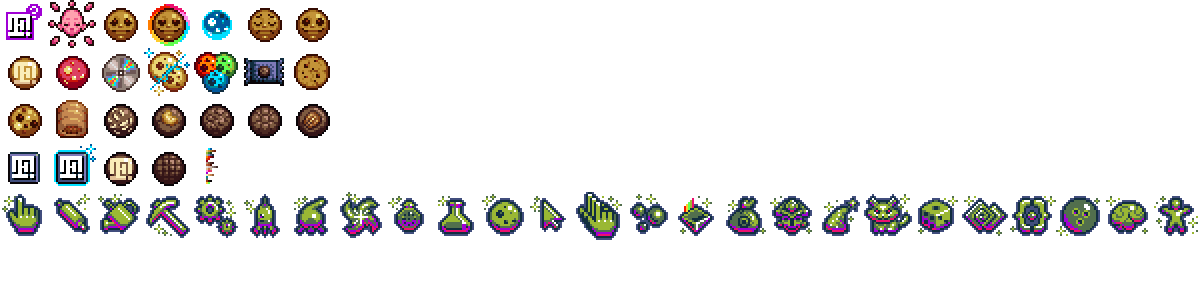
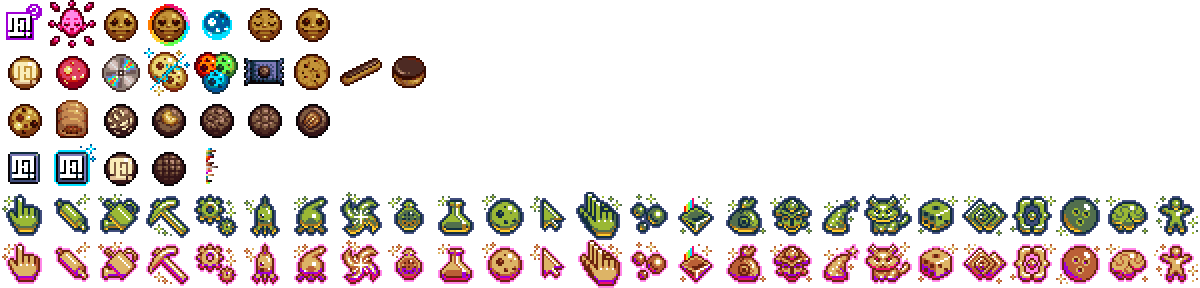
Adds Stellarbutter upgrades and Caramethyst achievements

diff --git a/fractylcookie.js b/fractylcookie.js
@@ -44,7 +44,6 @@ Game.registerMod('fractylCookie',{
     Game.last.order = achorder;
   },
   addTieredAchievement(name,desc,building,tier,icon,achorder){
-    console.log(building)
     this.achievements.push(new Game.Achievement(name,loc("Have <b>%1</b>.",loc("%1 "+Game.Objects[building].bsingle,LBeautify(Game.Tiers[tier].achievUnlock)))+desc,icon));
     Game.SetTier(building,tier);
     Game.last.order = achorder;
@@ -58,6 +57,20 @@ Game.registerMod('fractylCookie',{
     Game.last.order = upgorder;
     Game.cookieUpgrades.push(Game.last);
   },
+  addTieredUpgrade:function(name,desc,building,tier,upgorder,icon){
+    this.upgrades.push(Game.TieredUpgrade(name,desc,building,tier));
+    Game.last.order = upgorder;
+    Game.last.icon = icon;
+  },
+  /*addCustomBuildingUpgrade:function(name,desc,building,tier,upgorder,icon,mult){
+    let upg = Game.TieredUpgrade(name,desc,building,tier);
+    this.upgrades.push(upg);
+    Game.buildingMultiplierUpgrades.push(upg);
+    Game.last.order = upgorder;
+    Game.last.icon = icon;
+    Game.last.customMult = mult;
+    Game.last.building = building;
+  },*/
   addPrestigeUpgrade:function(name,desc,cost,icon,parents,order,posx,posy){
     this.upgrades.push(new Game.Upgrade(name,desc,cost,icon))
     Game.last.pool = 'prestige';
@@ -83,7 +96,10 @@ Game.registerMod('fractylCookie',{
     }
   },
   create:function() {
+    //Game.buildingMultiplierUpgrades = [];
     Game.Tiers[16]={name:'Stellarbutter',unlock:650,achievUnlock:750,iconRow:0,color:'#526f4d',price:500000000000000000000000000000000000000000000}
+    Game.Tiers[17]={name:'Caramethyst',unlock:700,achievUnlock:800,iconRow:0,color:'#ddb466',price:5000000000000000000000000000000000000000000000000}
+    //this.addCustomBuildingMultipliers();
     Game.NewUpgradeCookie=function(obj)
 		{
 			var upgrade=new Game.Upgrade(obj.name,loc("Cookie production multiplier <b>+%1%</b>.",'[x]').replace('[x]',Beautify((typeof(obj.power)==='function'?obj.power(obj):obj.power)))+(EN?'<q>'+obj.desc+'</q>':''),obj.price,obj.icon);
@@ -129,6 +145,31 @@ Game.registerMod('fractylCookie',{
       for(let i of this.upgrades) {this.upgrades[i].bought = 0};
     }
   },
+  /*addCustomBuildingMultipliers:function(){
+    if (this.customMultipliersSetup) {return;}
+    if (!Game||!Game.GetTieredCpsMult) {console.warn('YOWZA!'); return;} //is there a game with a function? sure hope so
+    if (!Game.Objects || Object.keys(Game.Objects).length === 0) {console.warn('YEOWCH!'); return;} //are there buildings?
+    if (!Game.originalGetTieredCpsMult) {Game.originalGetTieredCpsMult = Game.GetTieredCpsMult;} //store the old function
+    Game.GetTieredCpsMult = function(me) {
+      if (!me || !me.name || !Game.originalGetTieredCpsMult) {return 1;} //invalid building or no old function
+      var mult = 1;
+      try {
+        mult = Game.originalGetTieredCpsMult(me);
+        if (typeof mult !== 'number' || isNaN(mult) || !isFinite(mult)) {mult = 1;} //stop errors in old function
+      } catch (e) {mult = 1;}
+      if (Game.buildingMultiplierUpgrades) {
+        for (var i = 0; i < Game.buildingMultiplierUpgrades.length; i++) {
+          var upgradeInfo = Game.buildingMultiplierUpgrades[i];
+          if (upgradeInfo && upgradeInfo.building === me.name && Game.Upgrades[upgradeInfo.name] && Game.Upgrades[upgradeInfo.name].bought) {
+            mult *= upgradeInfo.customMult;
+          }
+        }
+      }
+      if (typeof mult !== 'number' || isNaN(mult) || !isFinite(mult)) {mult = 1;}
+      return mult;
+    };
+    Game.customMultipliersSetup = true;
+  },*/
   createUpgrades:function() {
 
 		this.addCookieUpgrade({name:'Fractyl cookies',desc:'A mostly plain cookie, with a white chocolate logo. A delicious reminder to give Fractyl all your money.',icon:[0,1,this.icons],power:5,price:9999999999999999*5},10020.2575);
@@ -138,10 +179,15 @@ Game.registerMod('fractylCookie',{
     this.addCookieUpgrade({name:'Sausage rolls',desc:'It\'s the pastry equivalent of a hotdog, so it stands out from the other pastries which are much more on-theme.',icon:[1,2,this.icons],require:'Box of pastries',power:4,price:Math.pow(10,49)},10041)
     this.addCookieUpgrade({name:'Triple chocolate cookies',desc:'White, milk, and dark. The end to all chocolate conflict, and the beginning of a bright future.',icon:[0,2,this.icons],power:4,price:9999999999*5},10003)
 
+    let upgradesToMove = {253:[-255,-214],254:[-105,-268],255:[-189,-266],326:[-277,-133],};
+    Object.keys(upgradesToMove).forEach(i => {
+      Game.UpgradesById[i].posX=upgradesToMove[i][0];Game.UpgradesById[i].posY=upgradesToMove[i][1];
+    })
+
     let chocPacket = 'Packet of chocolate cookies'
 		this.addPrestigeUpgrade(chocPacket,loc("Contains an assortment of chocolate cookies.")
-    +'<q>If it ain\'t broke, create a chocolate version!</q>',25,[5,1,this.icons],['Heavenly cookies'],0.1);
-    Game.Upgrades['Starter kit'].parents.push(Game.Upgrades[chocPacket],50,-200)
+    +'<q>If it ain\'t broke, create a chocolate version!</q>',25,[5,1,this.icons],['Heavenly cookies'],0.1,-36,-220);
+    Game.Upgrades['Starter kit'].parents.push(Game.last)
 
     // Chocolate cookies
     this.addCookieUpgrade({name:'Chocolate peanut butter cookies',desc:'A common form of the chocolate cookie. Made using fresh chocolate peanuts.',icon:[3,3,this.icons],require:chocPacket,power:2,price:200000000},10033)
@@ -164,6 +210,32 @@ Game.registerMod('fractylCookie',{
     Game.last.order = 50003;
     Game.Unlock('Fractyl switch [on]')
 
+    
+    this.addCookieUpgrade({name:'Classic cookies',desc:'A relic of the very distant past.',icon:[6,1,this.icons],require:'Box of maybe cookies',power:5,price:Math.pow(10,51)},10051.1)
+    this.addCookieUpgrade({name:'Eclairs',desc:'A thunderstorm is approaching! Quick, eat these fast before lightning strikes them!',icon:[7,1,this.icons],require:'Box of pastries',power:4,price:Math.pow(10,51)},10041.1)
+
+    //this.addCustomBuildingUpgrade("Duodecillion fingers","<q>Perfect for magic tricks or petty theft.</q>","Cursor",16,101,[0,4,this.icons],2)
+		this.addTieredUpgrade("Duodecillion fingers","<q>Perfect for magic tricks or petty theft.</q>","Cursor",16,101,[0,4,this.icons])
+		this.addTieredUpgrade("Knitting needles","<q>Gives your grandmas something to do with their hands and distracts them from doing other things that could harm cookie production. Idle hands are the devil's bakery.</q>","Grandma",16,201,[1,4,this.icons])
+		this.addTieredUpgrade("Hydration liquid","<q>Composed of a dangerous mixture of various chemicals. Contains some very questionable substances and a couple rare elements. It hydrates your plants just slightly better than water.</q>","Farm",16,301,[2,4,this.icons])
+		this.addTieredUpgrade("Motivational images","<q>Never give up, because you never know when you're one swing of a pickaxe away from an Olympic swimming pool worth of rare minerals.</q>","Mine",16,401,[3,4,this.icons])
+		this.addTieredUpgrade("Hyperpetual motion machine","<q>This machine doesn't just stay in constant motion forever, it speeds up as it moves, creating a source of energy that only gets more powerful over time.</q>","Factory",16,501,[4,4,this.icons])
+		this.addTieredUpgrade("French spacing","<q>This is when a space is added before any punctuation with two separate pieces. The rest of the text in this game is full of it, so why not add it into your legal documents to pad them out and make less people read them ?</q>","Bank",16,526,[15,4,this.icons])
+		this.addTieredUpgrade("Escalator to heaven","<q>No one wants to submit themselves to a religion for their whole life just to climb up an endless flight of stairs. Why not sweeten the deal a little bit?</q>","Temple",16,551,[16,4,this.icons])
+		this.addTieredUpgrade("Wizard hobbies","<q>If your wizards are going to be casting spells and summoning cookies day and night, they need time off to do other things, like crocheting or web development.</q>","Wizard tower",16,576,[17,4,this.icons])
+		this.addTieredUpgrade("Space origami","<q>Take a lightweight, flat piece of incredibly dense machinery and electronics and unfold it into a fully functioning spaceship! Alternatively, fold time and space up so that your shipments can travel across the universe in an instant or less.</q>","Shipment",16,601,[5,4,this.icons])
+		this.addTieredUpgrade("Recursive transmutation","<q>If you stop making cookies for one second, you can use alchemy to transmute your equipment into better equipment, and then use that equipment to transmute your equipment into even better equipment. Repeat these steps as many times as you like, but remember not to make your equipment so advanced that it can do your job better than you.</q>","Alchemy lab",16,701,[6,4,this.icons])
+		this.addTieredUpgrade("Three sided portals","<q>It's common knowledge that you enter a portal through one side and exit out the other, but recently discovered ancient tablets suggest that a secret third side exists. Where does it go? Let's find out.</q>","Portal",16,801,[7,4,this.icons])
+		this.addTieredUpgrade("Flashbacks","<q>As a power-saving measure, researchers have found an alternate method of travelling to the past. Next time someone vividly reminisces or ruminates, your time machines can quickly catch a ride and get flashed back with them.</q>","Time machine",16,901,[8,4,this.icons])
+		this.addTieredUpgrade("Antiantimatter","<q>The enemy of my enemy is my friend. And the opposite of the opposite of matter probably matters.</q>","Antimatter condenser",16,1001,[13,4,this.icons])
+		this.addTieredUpgrade("Wider wavelength range","<q>There's more light out there than what we can see. Infrared and ultraviolet light are mostly untapped sources, until now. One benefit of these is that they won't burn the retinas of your employees, but if you stray too far from the visible light spectrum you may encounter other, more dangerous consequences.</q>","Prism",16,1101,[14,4,this.icons])
+		this.addTieredUpgrade("Jinx manipulation","<q>Just talk about how probable it is that undesirable things could happen and how much you'd hate if something really great happened to you. I mean, words are just words, so you have nothing to worry about.</q>","Chancemaker",16,1201,[19,4,this.icons])
+		this.addTieredUpgrade("Inline frames","<q>That's odd. This browser game contains another, harder to use browser game.</q>","Fractal engine",16,1301,[20,4,this.icons])
+		this.addTieredUpgrade("Extended documentation","<q>Contains all the information you need in one place, including the information advanced web developers don't want you to know about.</q>","Javascript console",16,1401,[21,4,this.icons])
+		this.addTieredUpgrade("Activeverses","<q>Turns out that constantly paying attention to an idleverse and endlessly working to maximise output gives a pretty significant boost to its production. The benefits are so large that they're almost worth the immense effort.</q>","Idleverse",16,1501,[22,4,this.icons])
+		this.addTieredUpgrade("Brain teasers","<q>Thinking cookies into existence can become mundane and repetitive, so these activities for your cortex bakers will keep their neural pathways strong and healthy.</q>","Cortex baker",16,1601,[23,4,this.icons])
+		this.addTieredUpgrade("Asexual reproduction","<q>Plants have been cloning themselves for years, just do as they do and everything will be alright (except for all of the things that will be weird and disgusting).</q>","You",16,1701,[24,4,this.icons])
+
     LocalizeUpgradesAndAchievs();
   },
   createAchievements:function() {
@@ -185,7 +257,7 @@ Game.registerMod('fractylCookie',{
     this.addLevel20Achievement("Between a rock and a hard place", "Reach level <b>20</b> mines.",[3,27],'Mine',1321);
     this.addLevel20Achievement("One million gears", "Reach level <b>20</b> factories.<q>And spinning things.</q>",[4,27],'Factory',1421);
     this.addLevel20Achievement("Dollars on the penny", "Reach level <b>20</b> banks.",[15,27],'Bank',1446);
-    this.addLevel20Achievement("Escalator to heaven", "Reach level <b>20</b> temples.",[16,27],'Temple',1471);
+    this.addLevel20Achievement("Call of deity", "Reach level <b>20</b> temples.",[16,27],'Temple',1471);
     this.addLevel20Achievement("Wonderful wizards of wonderful wizardry", "Reach level <b>20</b> wizard towers.",[17,27],'Wizard tower',1496);
     this.addLevel20Achievement("Intergalactic planetary", "Reach level <b>20</b> shipments.",[5,27],'Shipment',1521);
     this.addLevel20Achievement("Elementary", "Reach level <b>20</b> alchemy labs.",[6,27],'Alchemy lab',1621);
@@ -200,8 +272,11 @@ Game.registerMod('fractylCookie',{
     this.addLevel20Achievement("Just think about it", "Reach level <b>20</b> cortex bakers.",[34,27],'Cortex baker',2521);
     this.addLevel20Achievement("Group selfie", "Reach level <b>20</b> You.",[35,27],'You',2621);
 
-    // Extra tiered achievements
-    //this.addAchievement("Hands-on experience",loc("Have <b>%1</b>.",loc("%1 cursor",LBeautify(1100))),[0,30],1051)
+    // Tiered achievements
+
+    //Stellarbutter
+    eval(`Game.Objects["Cursor"].buyFunction = ` + Game.Objects["Cursor"].buyFunction.toString().slice(0, -1).concat(`if (this.amount>=1100) Game.Win('Hands-on experience');if (this.amount>=1200) Game.Win('Gotta hand it to you');}`));
+    this.addAchievement("Hands-on experience",loc("Have <b>%1</b>.",loc("%1 cursor",LBeautify(1100))),[0,30],1051)
     this.addTieredAchievement("Like wine", "","Grandma",16,[1,4,this.icons],1101);
     this.addTieredAchievement("Plow down", "","Farm",16,[2,4,this.icons],1201);
     this.addTieredAchievement("Buried treasure", "","Mine",16,[3,4,this.icons],1301);
@@ -221,6 +296,30 @@ Game.registerMod('fractylCookie',{
     this.addTieredAchievement("Grand theft cosmos", "","Idleverse",16,[22,4,this.icons],2401);
     this.addTieredAchievement("Brainiac", "","Cortex baker",16,[23,4,this.icons],2501);
     this.addTieredAchievement("The more the merrier", "","You",16,[24,4,this.icons],2601);
+    
+    //Caramethyst
+    this.addAchievement("Gotta hand it to you",loc("Have <b>%1</b>.",loc("%1 cursor",LBeautify(1200))),[0,31],1052)
+    this.addTieredAchievement("Respect your elders", "","Grandma",17,[1,5,this.icons],1102);
+    this.addTieredAchievement("Industry plant", "","Farm",17,[2,5,this.icons],1202);
+    this.addTieredAchievement("Set in stone", "","Mine",17,[3,5,this.icons],1302);
+    this.addTieredAchievement("Kinetic energy", "","Factory",17,[4,5,this.icons],1402);
+    this.addTieredAchievement("Keep your hands off of my stack", "","Bank",17,[15,5,this.icons],1427); //A penny for your thoughts
+    this.addTieredAchievement("Cult classic", "","Temple",17,[16,5,this.icons],1452);
+    this.addTieredAchievement("Fireball", "","Wizard tower",17,[17,5,this.icons],1477);
+    this.addTieredAchievement("Across the universe", "","Shipment",17,[5,5,this.icons],1502);
+    this.addTieredAchievement("High melting point", "","Alchemy lab",17,[6,5,this.icons],1602);
+    this.addTieredAchievement("Otherworldly", "","Portal",17,[7,5,this.icons],1702);
+    this.addTieredAchievement("Hickory dickory dock", "","Time machine",17,[8,5,this.icons],1802);
+    this.addTieredAchievement("Audaseetee", "","Antimatter condenser",17,[13,5,this.icons],1902);
+    this.addTieredAchievement("The Shining", "","Prism",17,[14,5,this.icons],2002);
+    this.addTieredAchievement("Risking it all", "","Chancemaker",17,[19,5,this.icons],2102);
+    this.addTieredAchievement("Infinite zoom", "","Fractal engine",17,[20,5,this.icons],2202);
+    this.addTieredAchievement("Flip the script", "","Javascript console",17,[21,5,this.icons],2302);
+    this.addTieredAchievement("This one's for all the marbles", "","Idleverse",17,[22,5,this.icons],2402);
+    this.addTieredAchievement("Neuron activation", "","Cortex baker",17,[23,5,this.icons],2502);
+    this.addTieredAchievement("Make a supersonic man", "","You",17,[24,5,this.icons],2602);
+    
+    this.addAchievement("Really-plusplusplus?", "Use <b>ECMplusplusplus</b>.<q>This mod not only increases \"ECM\" by 1, but also has an extra plus for no reason.</q>",[5,0,this.icons],69425,'shadow');
 
     LocalizeUpgradesAndAchievs();
   },
@@ -236,6 +335,7 @@ Game.registerMod('fractylCookie',{
     if (Game.mods['extraContent'] !== undefined) {Game.Win('Really?')}
     if (Game.mods['Eercermer'] !== undefined) {Game.Win('Really-er?')}
     if (Game.mods['elessclessmless'] !== undefined) {Game.Win('Really-less?')}
+    if (Game.mods['ECMplusplusplus'] !== undefined) {Game.Win('Really-plusplusplus?')}
     let isafibonacci = 1;
     if (!Game.HasAchiev('Fibonacci')) {
       for (var i in Game.Objects) {

diff --git a/README.md b/README.md
@@ -1,14 +1,17 @@
 # FractylCookie
 **A small, incomplete, bad, themeless Cookie Clicker mod.**
 ## Features
-- Adds the Fractyl logo to the big cookie and wrinklers
-- Thirteen new cookie upgrades: 
+- Adds the Fractyl logo to the big cookie and wrinklers (can be toggled for 1 cookie)
+- Adds a new tier of building upgrades
+- Fifteen new cookie upgrades: 
   - Fractyl cookies
   - Red velvet cookies
   - Compact discs
   - Inverted cookies
   - Sausage rolls
   - Triple chocolate cookies
+  - Classic cookies
+  - Eclairs
   - Chocolate peanut butter cookies
   - Chocolate coconut cookies
   - Chocolate almond cookies
@@ -23,11 +26,14 @@
   - Fibonacci
   - Golden combination
   - Golden triple
-  - plus 19 tiered building achievements!
+  - plus fourty tiered building achievements!
   - and twenty level 20 achievements!
-- Four new shadow achievements: 
+- Seven new shadow achievements: 
   - Regular person complex
   - Really?
+  - Really-er?
+  - Really-less?
+  - Really-plusplusplus?
   - Pretty pink priorities
   - When the cookies ascend just nice
 - Removes Herobrine
@@ -39,7 +45,7 @@ Create a bookmark with this URL: `javascript: (function(){Game.LoadMod("https://
 
 Click on the bookmark to activate the mod.
 ## More stuff
-This repository also contains some other, smaller mods.
+This repository also contains some other, smaller mods, for some reason.
 
 [elessclessmless](other-mods/elessclessmless/README.md): ECM but much easier.
 
